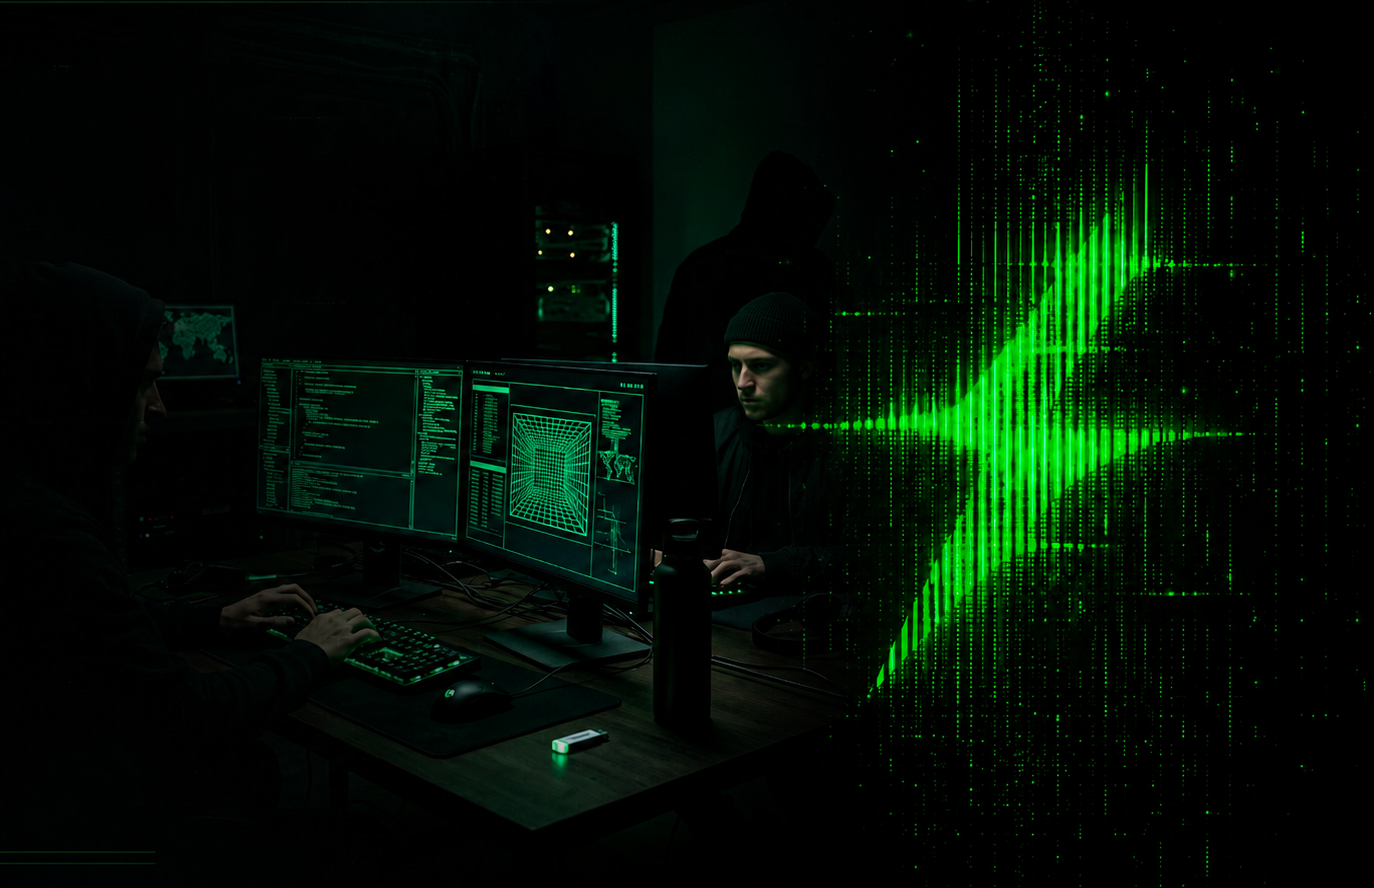
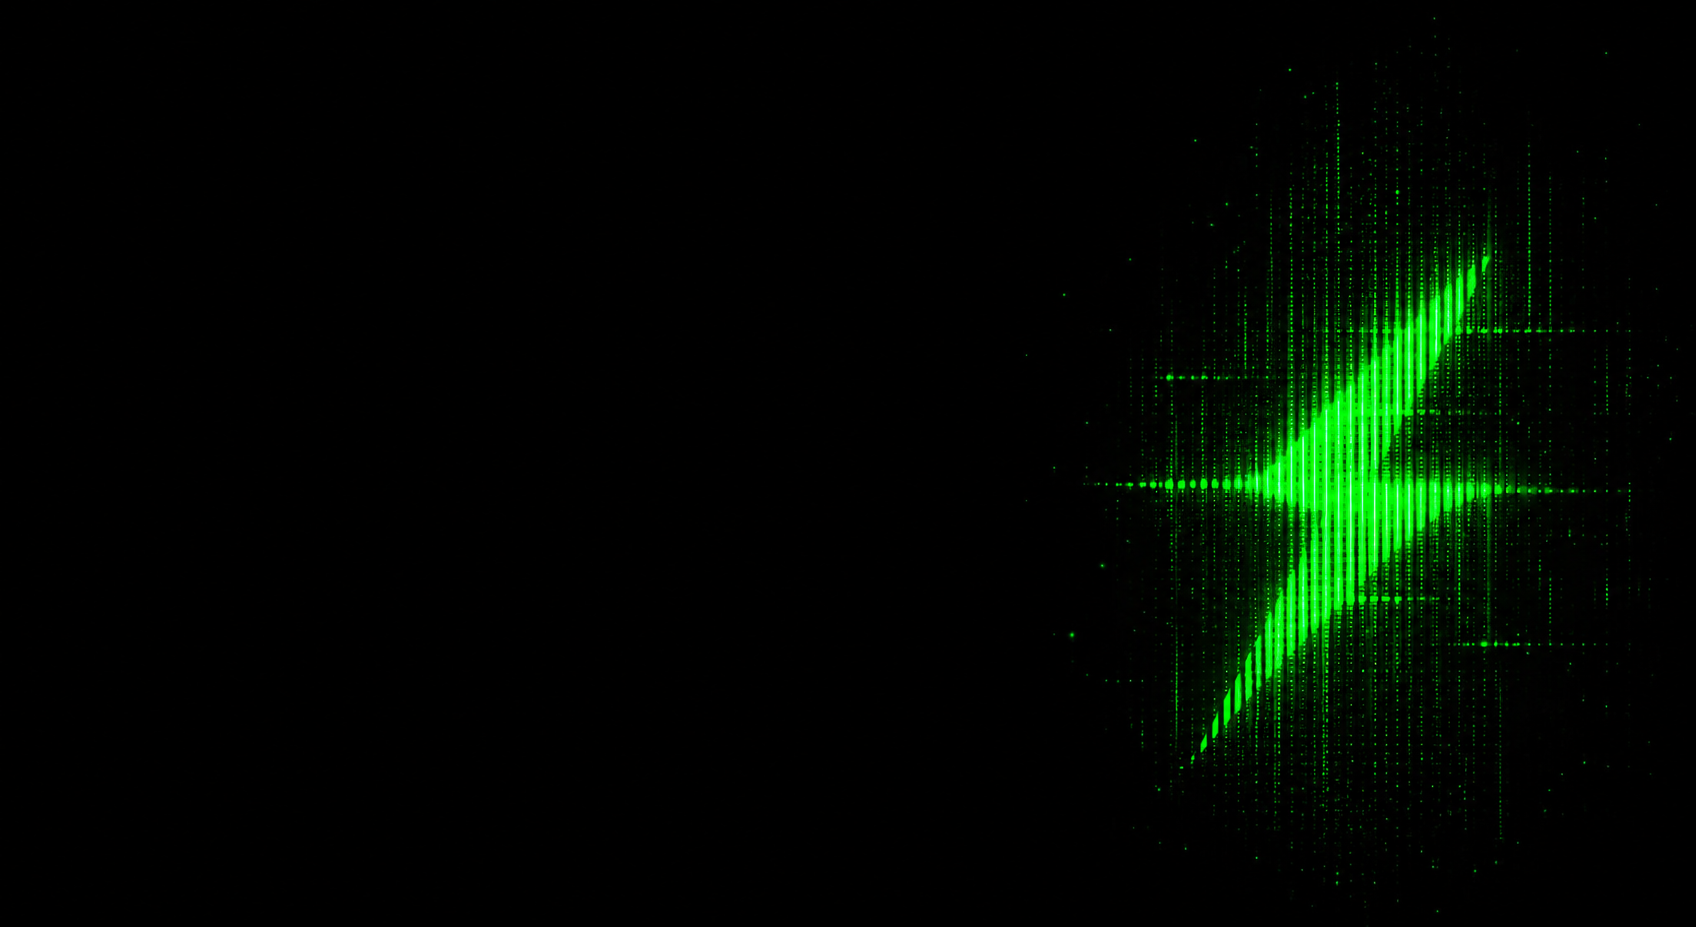
pictures in shedule

diff --git a/components/sections/Schedule.tsx b/components/sections/Schedule.tsx
@@ -12,9 +12,12 @@ export function Schedule() {
           <h4 className="text-xl md:text-2xl font-bold text-white mb-3 font-sans tracking-wide">
             Introduction to Hackathon
           </h4>
-          <div className="flex items-center gap-2 text-sm text-neutral-400 font-sans">
-            <span className="text-neutral-500 font-mono">Conducted by:</span>
-            <span className="text-white font-semibold">Mr. Rukshan Senanayake</span>
+          <div className="flex items-center gap-4 mt-4">
+            <img src="/team/mr.rukshan.jpg" alt="Mr. Rukshan Senanayake" className="w-20 h-20 rounded-full object-cover border-2 border-[#00ef4f]/30 bg-neutral-800" />
+            <div className="flex flex-col gap-1 text-sm text-neutral-400 font-sans">
+              <span className="text-neutral-500 font-mono">Conducted by:</span>
+              <span className="text-white font-semibold">Mr. Rukshan Senanayake</span>
+            </div>
           </div>
         </div>
       ),
@@ -27,9 +30,12 @@ export function Schedule() {
           <h4 className="text-xl md:text-2xl font-bold text-white mb-3 font-sans tracking-wide">
             GitHub & Version Control
           </h4>
-          <div className="flex items-center gap-2 text-sm text-neutral-400 font-sans">
-            <span className="text-neutral-500 font-mono">Conducted by:</span>
-            <span className="text-white font-semibold">Mirco Fernando</span>
+          <div className="flex items-center gap-4 mt-4">
+            <img src="/team/mirco.jpg" alt="Mirco Fernando" className="w-20 h-20 rounded-full object-cover border-2 border-[#00ef4f]/30 bg-neutral-800" />
+            <div className="flex flex-col gap-1 text-sm text-neutral-400 font-sans">
+              <span className="text-neutral-500 font-mono">Conducted by:</span>
+              <span className="text-white font-semibold">Mirco Fernando</span>
+            </div>
           </div>
         </div>
       ),
@@ -42,9 +48,12 @@ export function Schedule() {
           <h4 className="text-xl md:text-2xl font-bold text-white mb-3 font-sans tracking-wide">
             AI-Powered Development: Modern AI Tools
           </h4>
-          <div className="flex items-center gap-2 text-sm text-neutral-400 font-sans">
-            <span className="text-neutral-500 font-mono">Conducted by:</span>
-            <span className="text-white font-semibold">Dinod Manjith</span>
+          <div className="flex items-center gap-4 mt-4">
+            <img src="/team/dinod.jpg" alt="Mr. Dinod Manjith" className="w-20 h-20 rounded-full object-cover border-2 border-[#00ef4f]/30 bg-neutral-800" />
+            <div className="flex flex-col gap-1 text-sm text-neutral-400 font-sans">
+              <span className="text-neutral-500 font-mono">Conducted by:</span>
+              <span className="text-white font-semibold">Mr. Dinod Manjith</span>
+            </div>
           </div>
         </div>
       ),